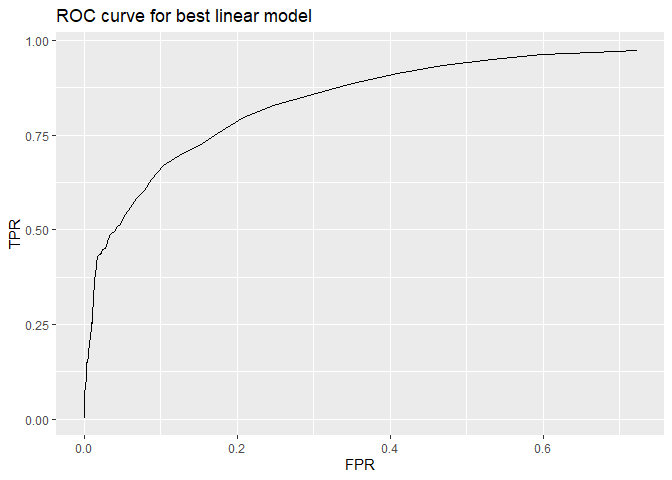
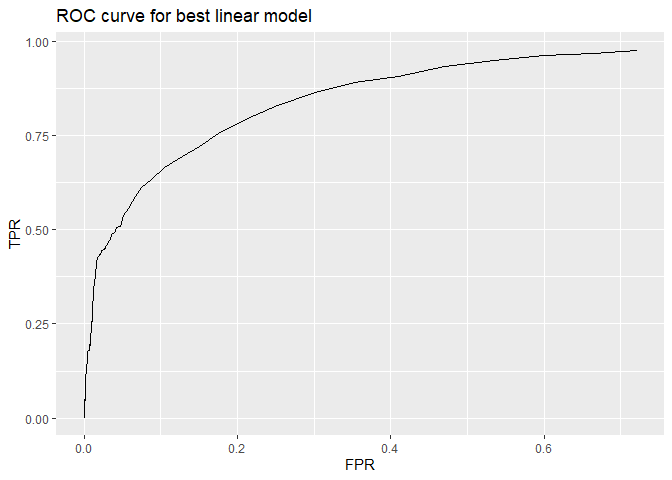
move dochw1

diff --git a/ECO395MHomework2.md b/ECO395MHomework2.md
@@ -1,4 +1,6 @@
-\#Q1 \## finding best linear model
+# Q1
+
+## finding best linear model
 
 lm2 = base modeal (made in class)
 
@@ -13,12 +15,12 @@ lm\_d = lm\_b + lotSize\*livingArea
 lm\_e = lm\_b + landValue\*livingArea
 
     ##      Avg of RMSE
-    ## lm2     66918.60
-    ## lm_a    66873.45
-    ## lm_b    59107.21
-    ## lm_c    59235.31
-    ## lm_d    59144.59
-    ## lm_e    59226.99
+    ## lm2     66101.30
+    ## lm_a    66095.27
+    ## lm_b    58097.42
+    ## lm_c    58227.55
+    ## lm_d    58167.87
+    ## lm_e    58204.04
 
 We can see above that our model lm\_b outperforms lm2 which was the
 “medium” model discussed in class. This new model removes the fireplace
@@ -30,15 +32,15 @@ an optimal k value that is provided below. The K nearest neighbor
 regression regressed on all variables except for pctCollege, sewer,
 waterfront, fireplaces, or fuel.
 
-    ## [1] 103
+    ## [1] 42
 
 In our comparison we look at the average of the out-of-sample root mean
 squared error after running both the knn regression and linear model
 through 50 train-test-splits.
 
     ##              Avg of RMSE
-    ## KNN             76268.87
-    ## Linear model    58567.69
+    ## KNN             74029.94
+    ## Linear model    58570.95
 
 As we can see,The linear model certainly, on average, outperformed the
 KNN regression in terms of average root mean squared error. We have
@@ -97,9 +99,9 @@ no defaults in the set.
 ### Model building
 
     ##       out-of-sample accuracy rate
-    ## base1                   0.9185400
-    ## base2                   0.9343689
-    ## best                    0.9358644
+    ## base1                   0.9190356
+    ## base2                   0.9344311
+    ## best                    0.9361222
 
 Above are the averages of out-of-sample accuracy rates across 50
 train-test-splits for the two base models and a third model which is the
@@ -119,26 +121,26 @@ in the bottom left to 1 in the top right.
 ### Model validation: step 2
 
     ##    fold total_count exp_children actual_children
-    ## 1     1         250         20.8              22
-    ## 2     2         250         20.9              19
-    ## 3     3         250         20.6              20
-    ## 4     4         250         24.3              25
-    ## 5     5         250         19.3              23
-    ## 6     6         250         20.9              21
-    ## 7     7         250         20.5              23
-    ## 8     8         250         15.4              12
-    ## 9     9         250         19.9              19
-    ## 10   10         250         20.6              21
-    ## 11   11         250         27.8              24
-    ## 12   12         250         20.6              21
-    ## 13   13         250         18.3              10
-    ## 14   14         250         20.9              19
-    ## 15   15         250         24.5              22
-    ## 16   16         250         19.9              23
-    ## 17   17         250         18.7              23
-    ## 18   18         250         20.5              18
-    ## 19   19         250         26.5              20
-    ## 20   20         249         19.6              17
+    ## 1     1         250         22.5              17
+    ## 2     2         250         19.0              19
+    ## 3     3         250         23.9              23
+    ## 4     4         250         20.0              17
+    ## 5     5         250         17.6              20
+    ## 6     6         250         24.5              28
+    ## 7     7         250         18.2              15
+    ## 8     8         250         23.6              18
+    ## 9     9         250         20.2              17
+    ## 10   10         250         24.6              26
+    ## 11   11         250         21.3              23
+    ## 12   12         250         19.7              23
+    ## 13   13         250         18.7              17
+    ## 14   14         250         19.7              23
+    ## 15   15         250         21.7              22
+    ## 16   16         250         21.5              18
+    ## 17   17         250         17.7              16
+    ## 18   18         250         23.1              21
+    ## 19   19         250         20.1              21
+    ## 20   20         249         20.3              18
 
 As we can see in the table above, for each of the 20 folds of the data
 we have the expected number of children and the actual number. In some
@@ -156,7 +158,7 @@ for each day.
 
 ![](ECO395MHomework2_files/figure-markdown_strict/unnamed-chunk-10-1.png)
 
-    ## [1] 0.004995874
+    ## [1] 0.004997726
 
 The plot above showcases how the deviance changes as lambda changes. We
 see that the lambda value that minimizes the deviance is presented just
@@ -167,7 +169,7 @@ also provide the optimal threshold to set.
 ![](ECO395MHomework2_files/figure-markdown_strict/unnamed-chunk-11-1.png)
 
     ##   threshold
-    ## 1 0.5001929
+    ## 1 0.5001432
 
 Notice that the ROC curve makes a perfect right angle. This perfect AUC
 score suggests that the model is highly capable of distinguishing
@@ -180,8 +182,8 @@ predictions.
 
     ##          Actual
     ## Predicted   0   1
-    ##         0 798   0
-    ##         1   0 826
+    ##         0 764   0
+    ##         1   0 860
 
     ## [1] "False Positive Rate: 0"
 
